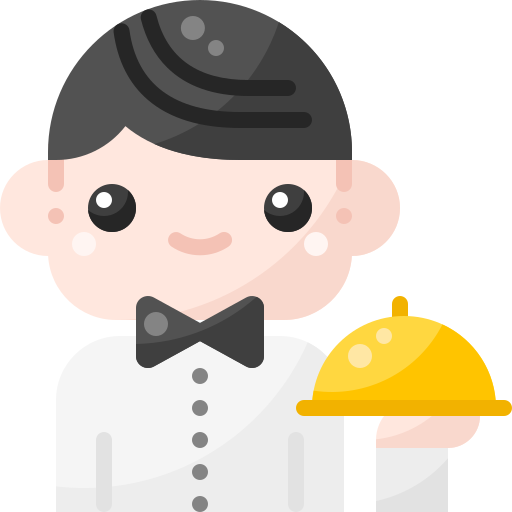
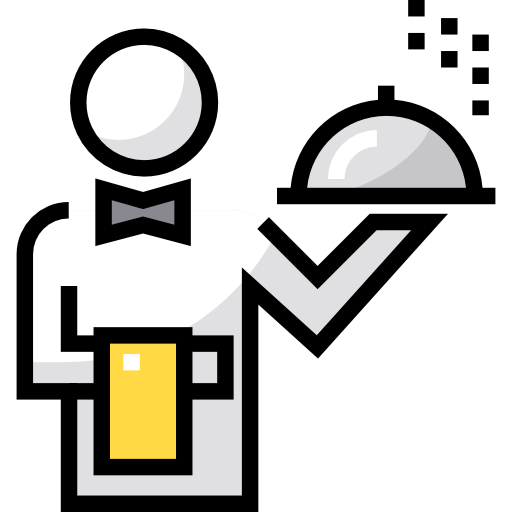
Interface da tela Menu de Atendimento pronta

diff --git a/src/navegacao/routes.js b/src/navegacao/routes.js
@@ -1,11 +1,12 @@
 import React from 'react'
-import { Image } from 'react-native'
+import { Image, StyleSheet } from 'react-native'
 import { createStackNavigator } from '@react-navigation/stack'
 import { createBottomTabNavigator } from '@react-navigation/bottom-tabs'
 
 import LoginRapido from '../views/LoginRapido'
 import Login from '../views/Login'
 import CheckIn from '../views/CheckIn'
+import MenuAtendimento from '../views/MenuAtendimento'
 import Cardapio from '../views/Cardapio'
 import Pedidos from '../views/Pedidos'
 import EscolherPagamento from '../views/EscolherPagamento'
@@ -15,6 +16,7 @@ import DadosUsuario from '../views/DadosUsuario'
 import EsqueciMinhaSenha from '../views/EsqueciMinhaSenha'
 import AtualizarSenha from '../views/AtualizarSenha'
 
+import iconMenu from '../../assets/images/icon-menu.png'
 import iconCardapio from '../../assets/images/cardapio.png'
 import iconPerfil from '../../assets/images/icone-perfil.png'
 import iconPedidos from '../../assets/images/pedidos.png'
@@ -33,14 +35,31 @@ function CardapioTabStack() {
     );
 }
 
+const MenuStack = createStackNavigator();
+
+function MenuTabStack() {
+    return (
+        <MenuStack.Navigator initialRouteName="Menu"
+            screenOptions={{ headerShown: false }}>
+            <MenuStack.Screen name="Menu" component={MenuAtendimento} />
+            <MenuStack.Screen name="Cardapio" component={Cardapio} />
+            <MenuStack.Screen name="Pedidos" component={Pedidos} />
+            <MenuStack.Screen name="EscolherPagamento" component={EscolherPagamento} />
+            <MenuStack.Screen name="CheckIn" component={CheckIn} />
+        </MenuStack.Navigator>
+    );
+}
+
+const PerfilStack = createStackNavigator();
+
 function PerfilTabStack() {
     return (
-        <CardapioStack.Navigator initialRouteName="PerfilUsuario"
+        <PerfilStack.Navigator initialRouteName="PerfilUsuario"
             screenOptions={{ headerShown: false }}>
-            <CardapioStack.Screen name="PerfilUsuario" component={PerfilUsuario} />
-            <CardapioStack.Screen name="DadosUsuario" component={DadosUsuario} />
-            <CardapioStack.Screen name="AtualizarSenha" component={AtualizarSenha} />
-        </CardapioStack.Navigator>
+            <PerfilStack.Screen name="PerfilUsuario" component={PerfilUsuario} />
+            <PerfilStack.Screen name="DadosUsuario" component={DadosUsuario} />
+            <PerfilStack.Screen name="AtualizarSenha" component={AtualizarSenha} />
+        </PerfilStack.Navigator>
     );
 }
 
@@ -60,16 +79,23 @@ function TabMenu() {
                     paddingTop: 5,
                 }
             }}>
+            <Tab.Screen name='Menu' component={MenuTabStack}
+                options={{
+                    tabBarIcon: () => (
+                        <Image
+                            source={iconMenu}
+                            resizeMode='contain'
+                            style={style.icone}
+                        />
+                    )
+                }} />
             <Tab.Screen name='Cardápio' component={CardapioTabStack}
                 options={{
                     tabBarIcon: () => (
                         <Image
                             source={iconCardapio}
                             resizeMode='contain'
-                            style={{
-                                width: 30,
-                                height: 30,
-                            }}
+                            style={style.icone}
                         />
                     )
                 }} />
@@ -79,10 +105,7 @@ function TabMenu() {
                         <Image
                             source={iconPerfil}
                             resizeMode='contain'
-                            style={{
-                                width: 30,
-                                height: 30,
-                            }}
+                            style={style.iconeMaior}
                         />
                     )
                 }} />
@@ -92,10 +115,7 @@ function TabMenu() {
                         <Image
                             source={iconPedidos}
                             resizeMode='contain'
-                            style={{
-                                width: 35,
-                                height: 35,
-                            }}
+                            style={style.iconeMaior}
                         />
                     )
                 }} />
@@ -106,14 +126,32 @@ function TabMenu() {
 const Stack = createStackNavigator()
 export default function Routes() {
     return (
-        <Stack.Navigator initialRouteName="LoginRapido"
+        <Stack.Navigator initialRouteName="CheckIn"
             screenOptions={{ headerShown: false }}>
             <Stack.Screen name='LoginRapido' component={LoginRapido} />
             <Stack.Screen name='Login' component={Login} />
             <Stack.Screen name='EsqueciMinhaSenha' component={EsqueciMinhaSenha} />
             <Stack.Screen name='CadastrarUsuario' component={CadastrarUsuario} />
             <Stack.Screen name='CheckIn' component={CheckIn} />
+            <Stack.Screen name='Menu' component={TabMenu} />
             <Stack.Screen name='Cardapio' component={TabMenu} />
         </Stack.Navigator>
     )
 }
+
+
+const style = StyleSheet.create({
+    icone: {
+        width: 30,
+        height: 30,
+    },
+    iconeMaior: {
+        width: 35,
+        height: 35,
+    },
+    txtPedir: {
+        fontSize: 18,
+        fontWeight: 'bold',
+        color: '#FFF',
+    },
+})

diff --git a/src/components/OpcoesAtendimento.js b/src/components/OpcoesAtendimento.js
@@ -1,0 +1,67 @@
+import React from 'react'
+import { View, Text, Image, StyleSheet, TouchableOpacity } from 'react-native'
+
+export default props => {
+    return (
+        <TouchableOpacity style={style.main}>
+            <View style={style.container}>
+                <View style={props.opcao == "Chamar o garçom"
+                    ? style.containerImage
+                    : style.containerImageEsq
+                }>
+                    <Image
+                        resizeMode='contain'
+                        source={props.imagem}
+                        style={style.iconePagamento}
+                    />
+
+                </View>
+
+                <Text style={style.opcao}>
+                    {props.opcao}
+                </Text>
+
+            </View>
+        </TouchableOpacity >
+    )
+}
+
+const style = StyleSheet.create({
+    main: {
+        alignItems: 'center',
+        marginBottom: 10,
+    },
+    iconePagamento: {
+        width: 100,
+        height: 100,
+        // backgroundColor: '#ccc',
+    },
+    container: {
+        flexDirection: 'row',
+        justifyContent: 'flex-start',
+        alignItems: 'center',
+        paddingBottom: 5,
+        width: 370,
+        borderBottomWidth: 1,
+        borderBottomColor: '#FF6300',
+        // backgroundColor: '#ccc',
+    },
+    containerImage: {
+        width: 120,
+        alignItems: 'center',
+        // backgroundColor: '#FFF',
+    },
+    containerImageEsq: {
+        width: 120,
+        alignItems: 'center',
+        // backgroundColor: '#FFF',
+    },
+    opcao: {
+        marginLeft: 10,
+        color: '#FFF',
+        fontSize: 28,
+        fontWeight: 'bold',
+        // backgroundColor: '#ccc',
+    },
+
+})

diff --git a/src/views/MenuAtendimento.js b/src/views/MenuAtendimento.js
@@ -1,0 +1,55 @@
+import React, { useEffect, useState } from 'react'
+import { View, Text, StyleSheet, TouchableOpacity, Image } from 'react-native'
+
+import Background from '../components/Background'
+import Header from '../components/Header'
+import StyleIndex from '../styles/index'
+import OpcoesAtendimento from '../components/OpcoesAtendimento'
+
+import Garcom from '../../assets/images/garçom.png'
+import PedirOnline from '../../assets/images/pedirOnline.png'
+
+export default props => {
+    // const goToPedidos = () => { props.navigation.navigate("Pedidos") }
+
+    return (
+        <Background>
+            <Header />
+            <View style={StyleIndex.mainContainer}>
+                <View style={StyleIndex.titleContainer}>
+                    <Text style={StyleIndex.titleText}>
+                        Opções de atendimento
+                    </Text>
+                </View>
+
+                <View style={StyleIndex.content}>
+
+                <OpcoesAtendimento
+                        imagem={Garcom}
+                        opcao='Chamar o garçom' />
+
+                <OpcoesAtendimento
+                        imagem={PedirOnline}
+                        opcao='Pedir Online' />
+
+                </View>
+
+                <View style={StyleIndex.footerContainer}>
+
+                </View>
+            </View>
+
+        </Background>
+    )
+}
+
+const style = StyleSheet.create({
+    imagem: {
+        width: 100,
+        height: 100,
+    },
+    contentButtom: {
+        borderBottomWidth: 2,
+        borderBottomColor: '#ff6300'
+    },
+})

diff --git a/src/components/Header.js b/src/components/Header.js
@@ -1,12 +1,12 @@
 import React from 'react'
-import { View, Text, Image, StyleSheet, TextComponent } from 'react-native'
+import { View, Text, Image } from 'react-native'
 import firebase from 'firebase'
 
 import Logo from '../../assets/images/logo.png'
 import Style from '../styles/header'
 
 export default props => {
-    const user = firebase.auth().currentUser;
+    // const user = firebase.auth().currentUser;
 
     return (
         <View style={Style.header}>
@@ -15,12 +15,11 @@ export default props => {
                 source={Logo}
                 style={Style.Logo} />
 
-            {/* <View style={Style.headerConteinerText}> */}
                 <Text style={Style.headerText}>
-                    Bem vindo, {user.displayName}!
+                    {/* Bem vindo, {user.displayName}! */}
+                    Bem Vindo,
                 </Text>
 
-            {/* </View> */}
             {props.children}
         </View>
     )

diff --git a/src/views/CheckIn.js b/src/views/CheckIn.js
@@ -9,7 +9,8 @@ import Mira from '../../assets/images/mira.png'
 import StyleIndex from '../styles/index'
 
 export default props => {
-    const goToCardapio = () => { props.navigation.navigate("Cardapio") }
+    const goToMenu = () => { props.navigation.navigate("Menu") }
+
     return (
         <Background>
             <Header />
@@ -25,7 +26,7 @@ export default props => {
                 <View style={StyleIndex.contentCenter}>
                     <View style={style.quadro}>
                         <TouchableOpacity
-                            onPress={goToCardapio}>
+                            onPress={goToMenu}>
                             <Image
                                 resizeMode='contain'
                                 source={Mira}

diff --git a/src/styles/index.js b/src/styles/index.js
@@ -19,7 +19,6 @@ export default StyleSheet.create({
         // backgroundColor: '#ccc',
     },
     contentRow: {
-        flex: 1,
         flexDirection: 'row',
         justifyContent: 'center',
         alignItems: 'center',
